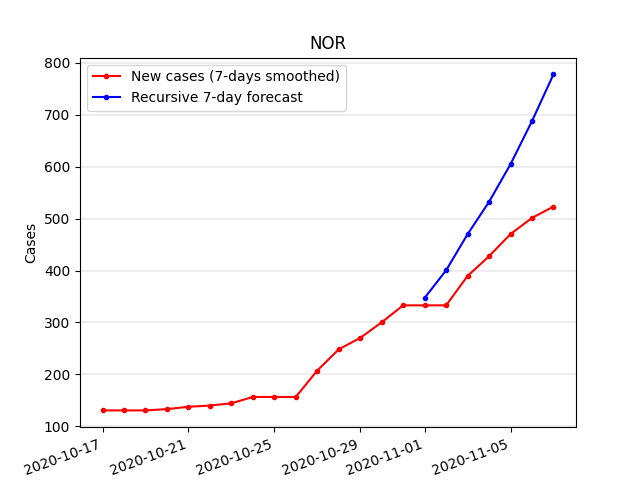
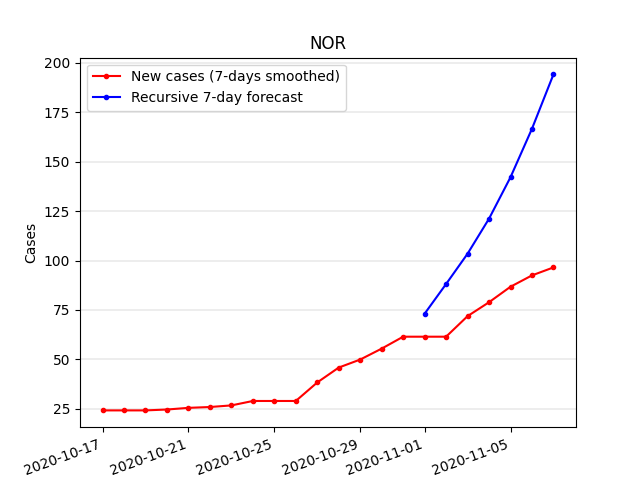
changed LSTM to predict new_cases_smoothed_per_million

diff --git a/lstm/lstm_all_countries.py b/lstm/lstm_all_countries.py
@@ -13,8 +13,8 @@ from keras.layers import Dense
 from keras.layers import LSTM
 
 
-tf_random.set_seed(1)
-seed(1)
+# tf_random.set_seed(1)
+# seed(1)
 
 
 def series_to_in_out_pairs(data, n_in=1, n_out=1, leave_cols=None):
@@ -82,13 +82,17 @@ euro_data["date"] = euro_data["date"].apply(date_to_number)
 euro_data = euro_data[euro_data["date"] <= date_to_number(end_date)]
 
 # Scale chosen features
-forecast_columns = ["date", "latitude", "longitude", "population", "stringency_index", "new_cases_smoothed", "iso_code"]
-scale_columns = ["date", "latitude", "longitude", "population", "stringency_index", "new_cases_smoothed"]
+forecast_columns = ["date", "latitude", "longitude", "population", "stringency_index",
+                    "new_cases_smoothed_per_million", "iso_code"]
+scale_columns = ["date", "latitude", "longitude", "population", "stringency_index",
+                 "new_cases_smoothed_per_million"]
 forecast_data = euro_data[forecast_columns].copy(deep=True)
 scaler = MinMaxScaler(feature_range=(0, 1))
 forecast_data[scale_columns] = scaler.fit_transform(forecast_data[scale_columns])
 
-forecast_data = series_to_in_out_pairs(forecast_data, n_in=n_lag_days, n_out=1, leave_cols=["date", "latitude", "longitude", "population", "stringency_index", "iso_code"])
+forecast_data = series_to_in_out_pairs(forecast_data, n_in=n_lag_days, n_out=1,
+                                       leave_cols=["date", "latitude", "longitude",
+                                                   "population", "stringency_index", "iso_code"])
 
 
 def date_scaling(d):
@@ -113,12 +117,12 @@ test_df = test_df.drop(columns=["iso_code"])
 train = train_df.values
 test = test_df.values
 
-
 train_x, train_y = train[:, : n_obs], train[:, -1]
 test_x, test_y = test[:, : n_obs], test[:, -1]
 train_x = train_x.reshape(train_x.shape[0], 1, train_x.shape[1])
 test_x = test_x.reshape(test_x.shape[0], 1, test_x.shape[1])
 
+print((date_to_number(end_date) - date_to_number(start_date) + 1))
 # Define a model
 model = Sequential()
 model.add(LSTM(32, input_shape=(train_x.shape[1], train_x.shape[2])))
@@ -129,7 +133,8 @@ history = model.fit(
     train_x,
     train_y,
     epochs=400,
-    batch_size=(date_to_number(end_date) - date_to_number(start_date) + 1),  # 1 Batch for each country
+    # 1 Batch for each country so weights are updated after each country is processed
+    batch_size=(date_to_number(end_date) - date_to_number(start_date) + 1),
     validation_data=(test_x, test_y),
     verbose=2,
     shuffle=False
@@ -153,86 +158,17 @@ actual_test = scaler.inverse_transform(actual_test)
 y = actual_test[:, -1]
 
 mae = mean_absolute_error(y_hat, y)
-# Print Mean Absolute Error for all 1-day-ahead forecasts for all countries in the validation set.
-# This is the average error of number of new cases per day per country.
-print("\nValidation set 1 step ahead MAE: {:.3f}\n".format(mae))
 
-# Evaluate on aggregated set for all of Europe for first week of november
-euro_mean_data = forecast_data.groupby("date")[["latitude", "longitude", "stringency_index"]].mean().reset_index()
-euro_sum_cols = ["population", "new_cases_smoothed_(t-7)",
-                 "new_cases_smoothed_(t-6)",
-                 "new_cases_smoothed_(t-5)",
-                 "new_cases_smoothed_(t-4)",
-                 "new_cases_smoothed_(t-3)",
-                 "new_cases_smoothed_(t-2)",
-                 "new_cases_smoothed_(t-1)",
-                 "new_cases_smoothed_(t+0)"]
-euro_sum_data = forecast_data.groupby("date")[euro_sum_cols].sum().reset_index()
-agg_euro_data = pd.concat([euro_mean_data, euro_sum_data], axis=1)
-agg_euro_data = agg_euro_data[["date", "latitude", "longitude"] + euro_sum_cols]
-agg_euro_data = agg_euro_data.loc[:, ~agg_euro_data.columns.duplicated()]
-
-# Plot 7 steps ahead forecast for aggregated european set
-last_entry = agg_euro_data.tail(1)
-last_entry = last_entry.values[:, : n_obs]
-last_entry = last_entry.reshape(1, 1, n_obs)
 first_pred_date = (date.fromisoformat(end_date) + timedelta(days=1))
-first_prediction = model.predict(last_entry)
-predicted_euro_values = concatenate((
-    [date_scaling(first_pred_date.isoformat())],
-    last_entry[0, 0, 1:n_single_features],
-    last_entry[0, 0, n_single_features+1:],
-    first_prediction[0]))
-predicted_euro_values = predicted_euro_values.reshape((1, 1, n_obs))
-
 n_pred_steps = 7
-plt.clf()
-for i in range(1, n_pred_steps):
-    last_entry = predicted_euro_values[-1:, :, :]
-    new_prediction = model.predict(last_entry)
-    new_date = (first_pred_date + timedelta(days=i)).isoformat()
-    new_last_row = concatenate((
-        [date_scaling(new_date)],
-        predicted_euro_values[-1, 0, 1:n_single_features - 1],
-        predicted_euro_values[-1, 0, n_single_features:],
-        new_prediction[0]))
-    new_last_row = new_last_row.reshape((1, 1, test_x.shape[1]))
-    predicted_euro_values = concatenate((predicted_euro_values, new_last_row))
-
-predicted_euro_values = predicted_euro_values.reshape((predicted_euro_values.shape[0], predicted_euro_values.shape[2]))
-predicted_euro_values = concatenate((predicted_euro_values[:, 0:n_single_features], predicted_euro_values[:, -1:]), axis=1)
-predicted_euro_values = scaler.inverse_transform(predicted_euro_values)
-
-pred_x = predicted_euro_values[:, 0].reshape(n_pred_steps)
-pred_y = predicted_euro_values[:, n_single_features].reshape(n_pred_steps)
-pred_dates = [number_to_datetime(round(x)) for x in pred_x]
-
-recent_agg = raw_euro_data.groupby("date")["new_cases_smoothed"].sum().reset_index()
-recent_agg = recent_agg[recent_agg["date"] >= "2020-10-17"]
-recent_agg = recent_agg[recent_agg["date"] <= "2020-11-07"]
-recent_dates = [datetime.fromisoformat(d) for d in recent_agg[["date"]].values.flatten()]
-recent_agg_y = recent_agg[["new_cases_smoothed"]].values.flatten()
-
-plt.clf()
-
-euro_mae = mean_absolute_error(recent_agg_y[-7:], pred_y)
-print("Europe forecast as a country 7-days-ahead MAE: {:.2f}".format(euro_mae))
-
-plt.plot_date(recent_dates, recent_agg_y, "r.-")
-plt.plot_date(pred_dates, pred_y, "b.-")
-plt.xticks(rotation=20, horizontalalignment="right")
-plt.title("Europe")
-plt.xlabel("Time")  # Doesn't render because it is pushed below the picture by the dates
-plt.ylabel("Cases")
-plt.grid(True, "major", "y", color="grey", linewidth=0.2)
-plt.legend(["New cases (7-days smoothed)", "Recursive 7-days forecast"])
-plt.savefig("plots/EUROPE")
-plt.clf()
+pred_dates = [(first_pred_date + timedelta(days=i)).isoformat() for i in range(n_pred_steps)]
 
 lstm_predictions = pd.DataFrame()
 lstm_predictions["date"] = pred_dates
-# Plot 7 steps ahead forecast for chosen countries and sum of all countries
+country_mae_list = []
+# Plot 7 steps ahead forecast for chosen countries and compute MAE of recursive prediction on test set
 euro_sum_y = zeros(7)
+plt.clf()
 for code in iso_codes:
     country_data = forecast_data[forecast_data["iso_code"] == code]
     country_data = country_data.drop(columns=["iso_code"])
@@ -243,7 +179,7 @@ for code in iso_codes:
     predicted_values = concatenate((
         [date_scaling(first_pred_date.isoformat())],
         last_entry[0, 0, 1:n_single_features],
-        last_entry[0, 0, n_single_features+1:],
+        last_entry[0, 0, n_single_features + 1:],
         prediction[0]))
     predicted_values = predicted_values.reshape((1, 1, n_obs))
 
@@ -253,7 +189,7 @@ for code in iso_codes:
         new_date = (first_pred_date + timedelta(days=i)).isoformat()
         new_last_row = concatenate((
             [date_scaling(new_date)],
-            predicted_values[-1, 0, 1:n_single_features-1],
+            predicted_values[-1, 0, 1:n_single_features - 1],
             predicted_values[-1, 0, n_single_features:],
             new_prediction[0]))
         new_last_row = new_last_row.reshape((1, 1, test_x.shape[1]))
@@ -267,13 +203,23 @@ for code in iso_codes:
     pred_y = predicted_values[:, n_single_features].reshape(n_pred_steps)
     pred_dates = [number_to_datetime(round(x)) for x in pred_x]
 
+    country_test = raw_euro_data[raw_euro_data["iso_code"] == code]
+    country_test = country_test[country_test["date"] >= "2020-11-01"]
+    country_test = country_test[country_test["date"] <= "2020-11-07"]
+    test_y = country_test["new_cases_smoothed_per_million"].values
+    country_mae = mean_absolute_error(test_y, pred_y)
+    country_mae_list.append(country_mae)
+
     euro_sum_y += pred_y
-    if code in ["DEU", "ESP", "NOR"]:
+    # Demo countries
+    if code in ["DEU", "ESP", "NOR", "SWE"]:
         recent_history = raw_euro_data[raw_euro_data["iso_code"] == code]
         recent_history = recent_history[recent_history["date"] >= "2020-10-17"]
         recent_history = recent_history[recent_history["date"] <= "2020-11-07"]
 
-        recent_y = recent_history["new_cases_smoothed"].values
+        recent_y = recent_history["new_cases_smoothed_per_million"].values
+
+        recent_dates = [datetime.fromisoformat(d) for d in recent_history[["date"]].values.flatten()]
 
         country_mae = mean_absolute_error(recent_y[-7:], pred_y)
         print("{:s} 7-days-ahead MAE: {:.2f}".format(code, country_mae))
@@ -291,20 +237,7 @@ for code in iso_codes:
 
         lstm_predictions["lstm_{:s}".format(code)] = pred_y
 
-euro_sum_mae = mean_absolute_error(recent_agg_y[-7:], euro_sum_y)
-print("Sum of European countries 7-days-ahead MAE: {:.2f}".format(euro_sum_mae))
-
-plt.plot_date(recent_dates, recent_agg_y, "r.-")
-plt.plot_date(pred_dates, euro_sum_y, "b.-")
-plt.xticks(rotation=20, horizontalalignment="right")
-plt.title("Sum of european predictions")
-plt.xlabel("Time")  # Doesn't render because it is pushed below the picture by the dates
-plt.ylabel("Cases")
-plt.grid(True, "major", "y", color="grey", linewidth=0.2)
-plt.legend(["New cases (7-days smoothed)", "Recursive 7-day forecast"])
-plt.savefig("plots/EUROPE_sum.png")
-plt.clf()
-
-lstm_predictions["lstm_euro_sum"] = euro_sum_y
+total_mae = sum(country_mae_list) / len(country_mae_list)
+print("MAE of entire test set: {:.2f}".format(total_mae))
 lstm_predictions.to_pickle("../lstm_predictions/lstm_predictions.pkl")
 lstm_predictions.to_csv("../lstm_predictions/lstm_predictions.csv")

diff --git a/plotting.py b/plotting.py
@@ -18,36 +18,30 @@ for isoCode in countryCodes:
     dateTimes = [datetime.strptime(date, "%Y-%m-%d") for date in countryData["date"]]
     dates = date2num(dateTimes)
 
-    plt.plot_date(dates, countryData["new_cases_smoothed"], "-")
+    plt.plot_date(dates, countryData["new_cases_smoothed_per_million"], "-")
     plt.xticks(rotation=30, horizontalalignment="right")
     plt.title(countryName)
     plt.xlabel("Time")  # Does not render because it is pushed below the frame by the dates
     plt.ylabel("Cases")
     plt.grid(True, "major", "y", color="grey", linewidth=0.2)
-    plt.legend(["New cases (7-day smoothed)"])
+    plt.legend(["New cases per million (7-day smoothed)"])
     plt.savefig("plots/cases_smoothed/{:s}.png".format(isoCode))
     plt.clf()
 
 fig, axs = plt.subplots(2, 2)
 fig.set_size_inches(1920/150, 1080/150)
 
-for i, isoCode in enumerate(["DEU", "ESP", "NOR"]):
+for i, isoCode in enumerate(["DEU", "ESP", "NOR", "SWE"]):
     countryData = euroData[euroData["iso_code"] == isoCode]
     countryName = (countryData.location.unique()[0])
     dateTimes = [datetime.strptime(date, "%Y-%m-%d") for date in countryData["date"]]
     dates = date2num(dateTimes)
-    axs[i // 2, i % 2].plot_date(dates, countryData["new_cases_smoothed"], "-")
+    axs[i // 2, i % 2].plot_date(dates, countryData["new_cases_smoothed_per_million"], "-")
     axs[i // 2, i % 2].set_title(countryName)
 
-euroSum = euroData.groupby("date")[["new_cases_smoothed"]].sum()
-norData = euroData[euroData["iso_code"] == "NOR"]
-dateTimes = [datetime.strptime(date, "%Y-%m-%d") for date in norData["date"]]
-dates = date2num(dateTimes)
-axs[1, 1].plot_date(dates, euroSum["new_cases_smoothed"], "-")
-axs[1, 1].set_title("Europe (sum)")
 
 for ax in axs.flat:
-    ax.set(xlabel="Date", ylabel="Cases")
+    ax.set(xlabel="Date", ylabel="Cases per million")
     plt.setp(ax.get_xticklabels(), rotation=30, ha="right")
 
 fig.tight_layout(pad=3)
